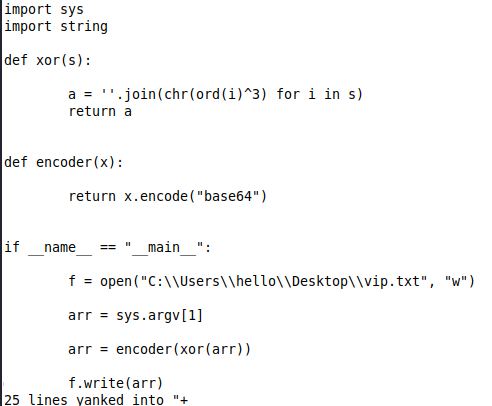
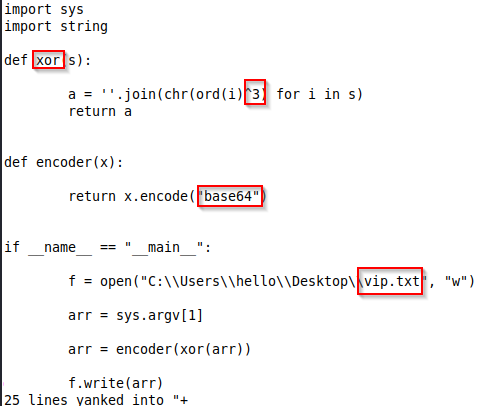
terminado análisis La Guardia Del Mal y arreglado formato Obsesión

diff --git a/LaGuardiaDelMal.md b/LaGuardiaDelMal.md
@@ -1,2 +1,40 @@
 # A.4.6 - La guarida del mal
 
+Buscar el sistema operativo de la imagen.
+
+![SO](/img/guardiaDelMal1.png)
+
+Buscar el script malicioso.
+
+![script](/img/guardiaDelMal2.png)
+
+Extraer el fichero para ver su contenido.
+
+![dump](/img/guardiaDelMal3.png)
+
+Modificar la extensión del archivo a *.py* y ver su contenido.
+
+![script2](/img/guardiaDelMal4.png)
+
+Buscar el archivo *vip.txt* que se menciona en el script y extraerlo.
+
+![vip.txt](/img/guardiaDelMal5.png)
+
+Cambiar la extensión del archivo a *.txt* y ver su contenido.
+
+![txt](/img/guardiaDelMal6.png)
+
+Copiar el contenido y decodearlo con ***Cyberchef*** en base al cifrado XOR y base64 encontrados en el script. De esta forma tendremos la primera mitad de la flag.
+
+![cyberchef](/img/guardiaDelMal7.png)
+
+Buscar la imagen que se debe analizar y extraerla.
+
+![jpeg](/img/guardiaDelMal8.png)
+
+Cambiar la extensión del archivo a *.jpeg* y abrirla con la aplicación ***steghide***. La contraseña es la primera mitad de la flag encontrada anteriormente.
+
+![steghide](/img/guardiaDelMal9.png)
+
+*Test*  
+![test](/img/guardiaDelMal10.png)

diff --git a/Obsesion.md b/Obsesion.md
@@ -21,5 +21,5 @@ Copiar el hexadecimal y pegarlo en el *decoder* ***Cyberchef*** para encontrar l
 
 ![cyberchef](/img/obsesion5.png)
 
-*Test*
+*Test*  
 ![test](/img/obsesion6.png)
